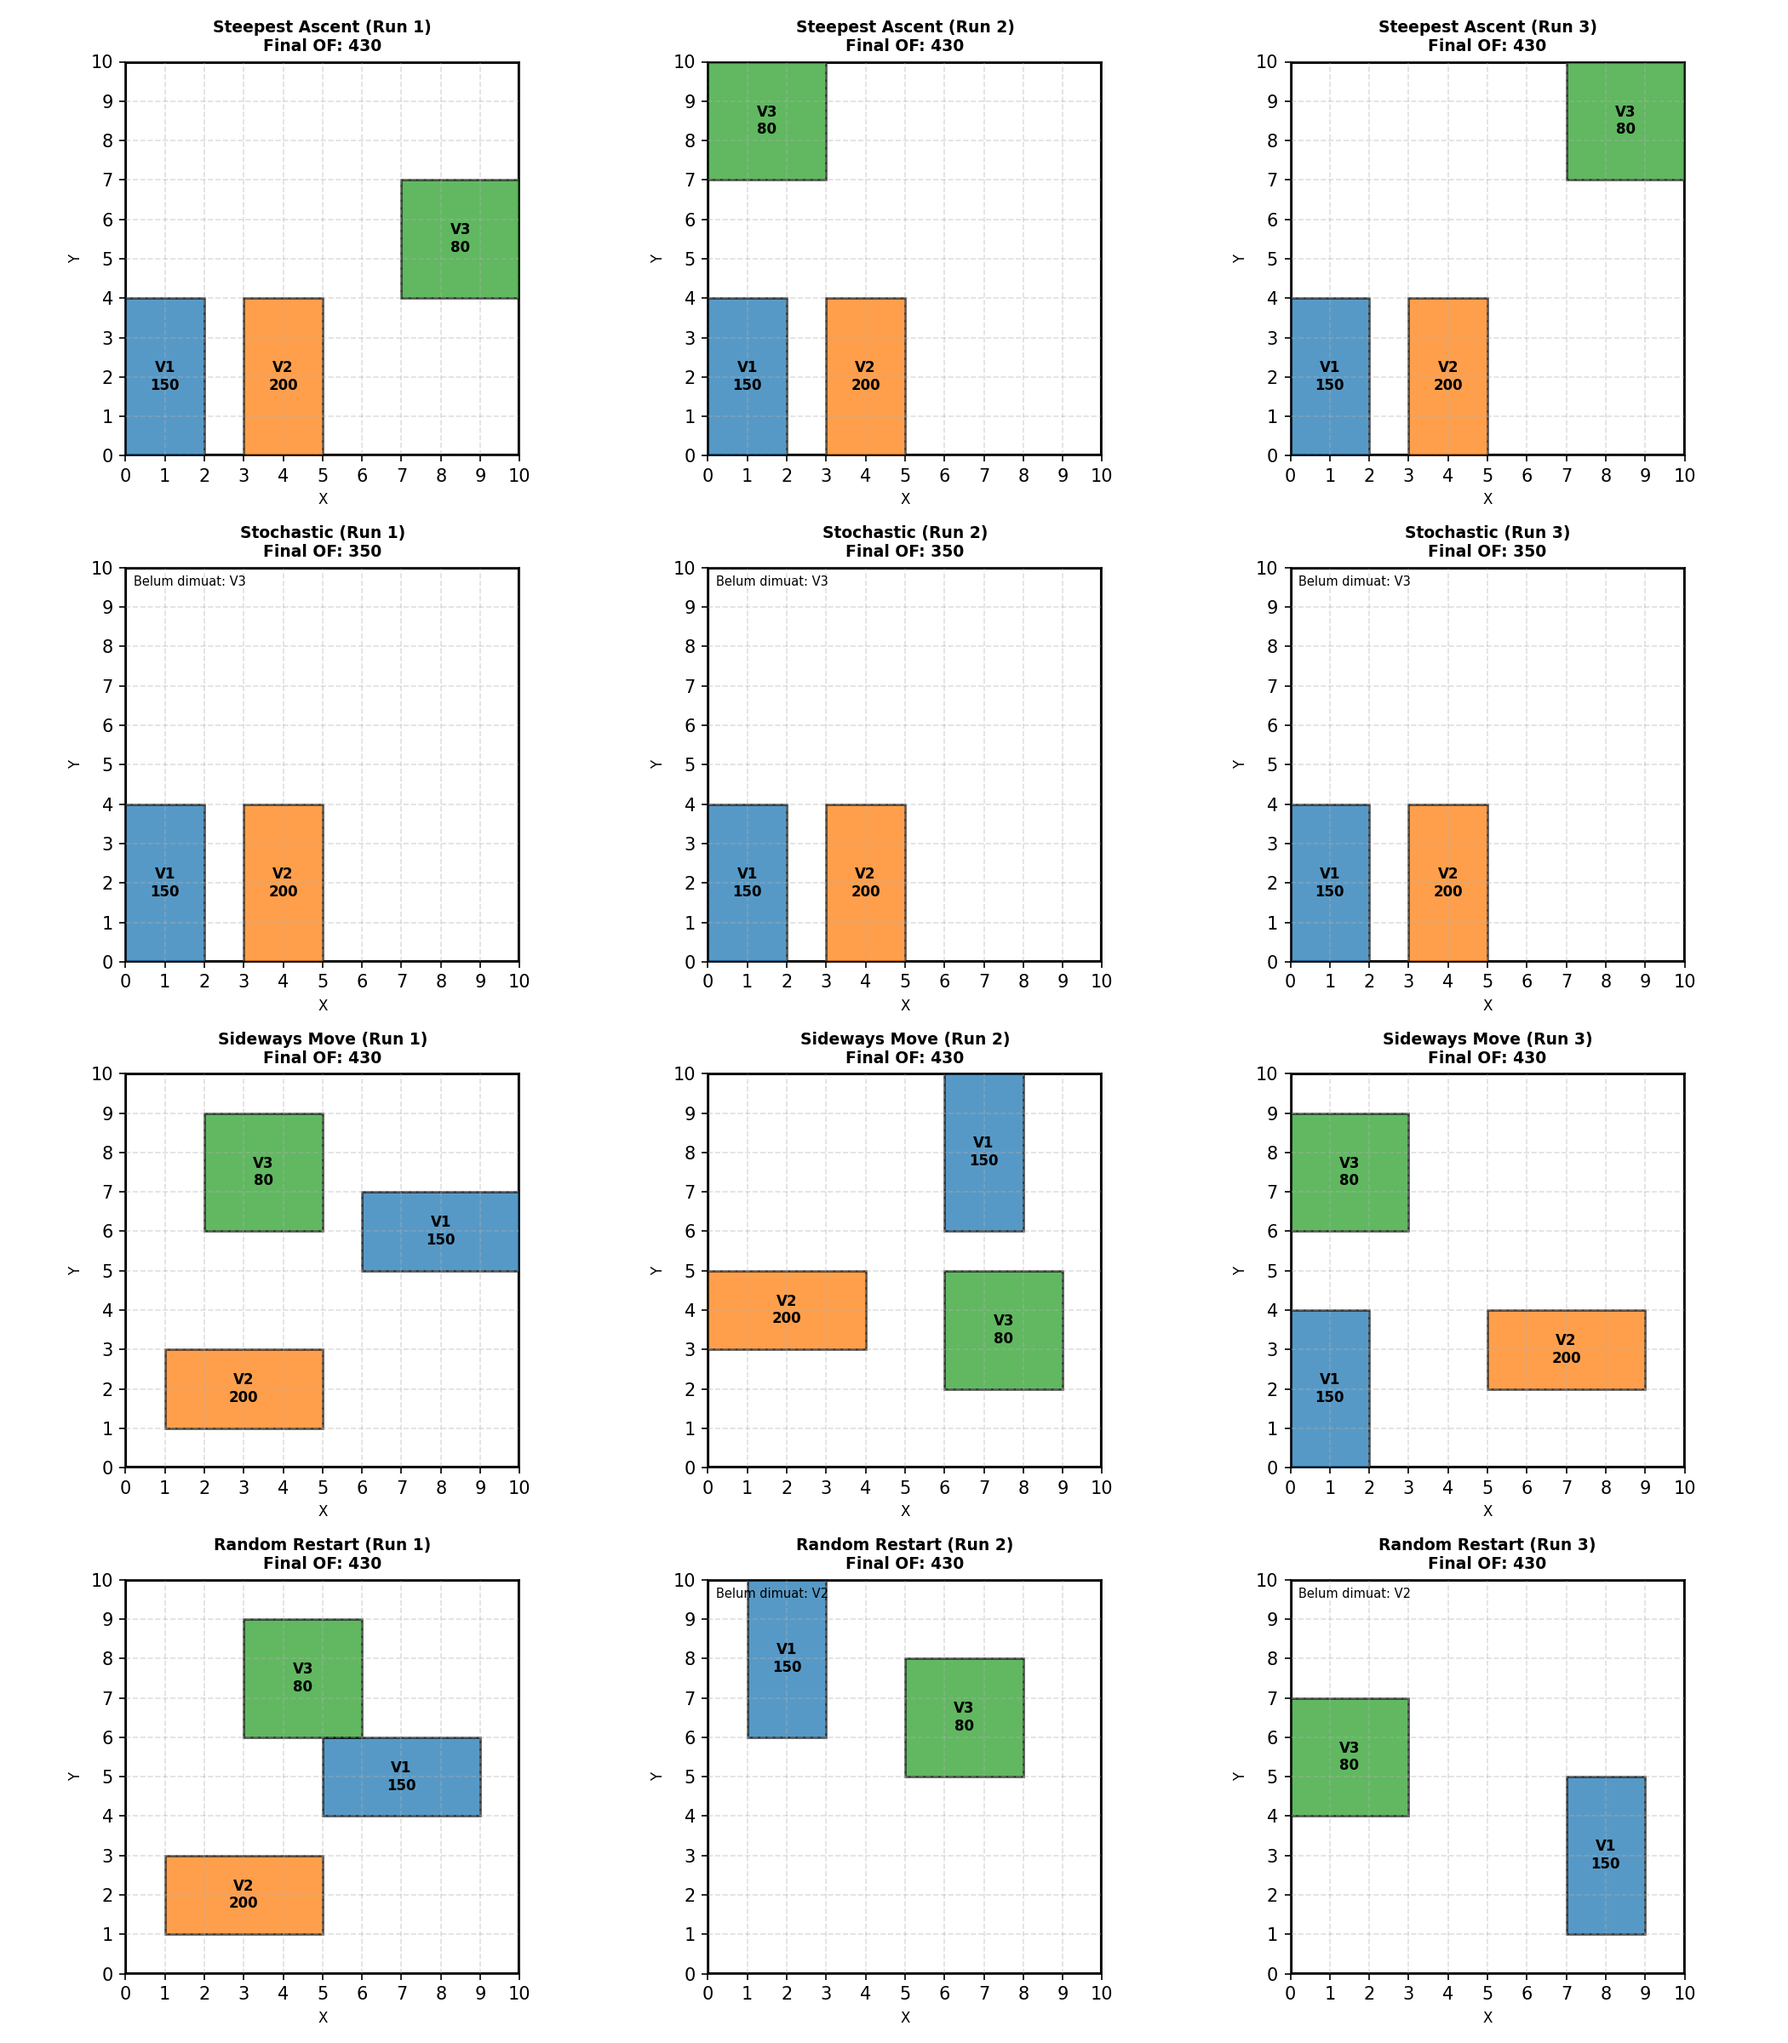
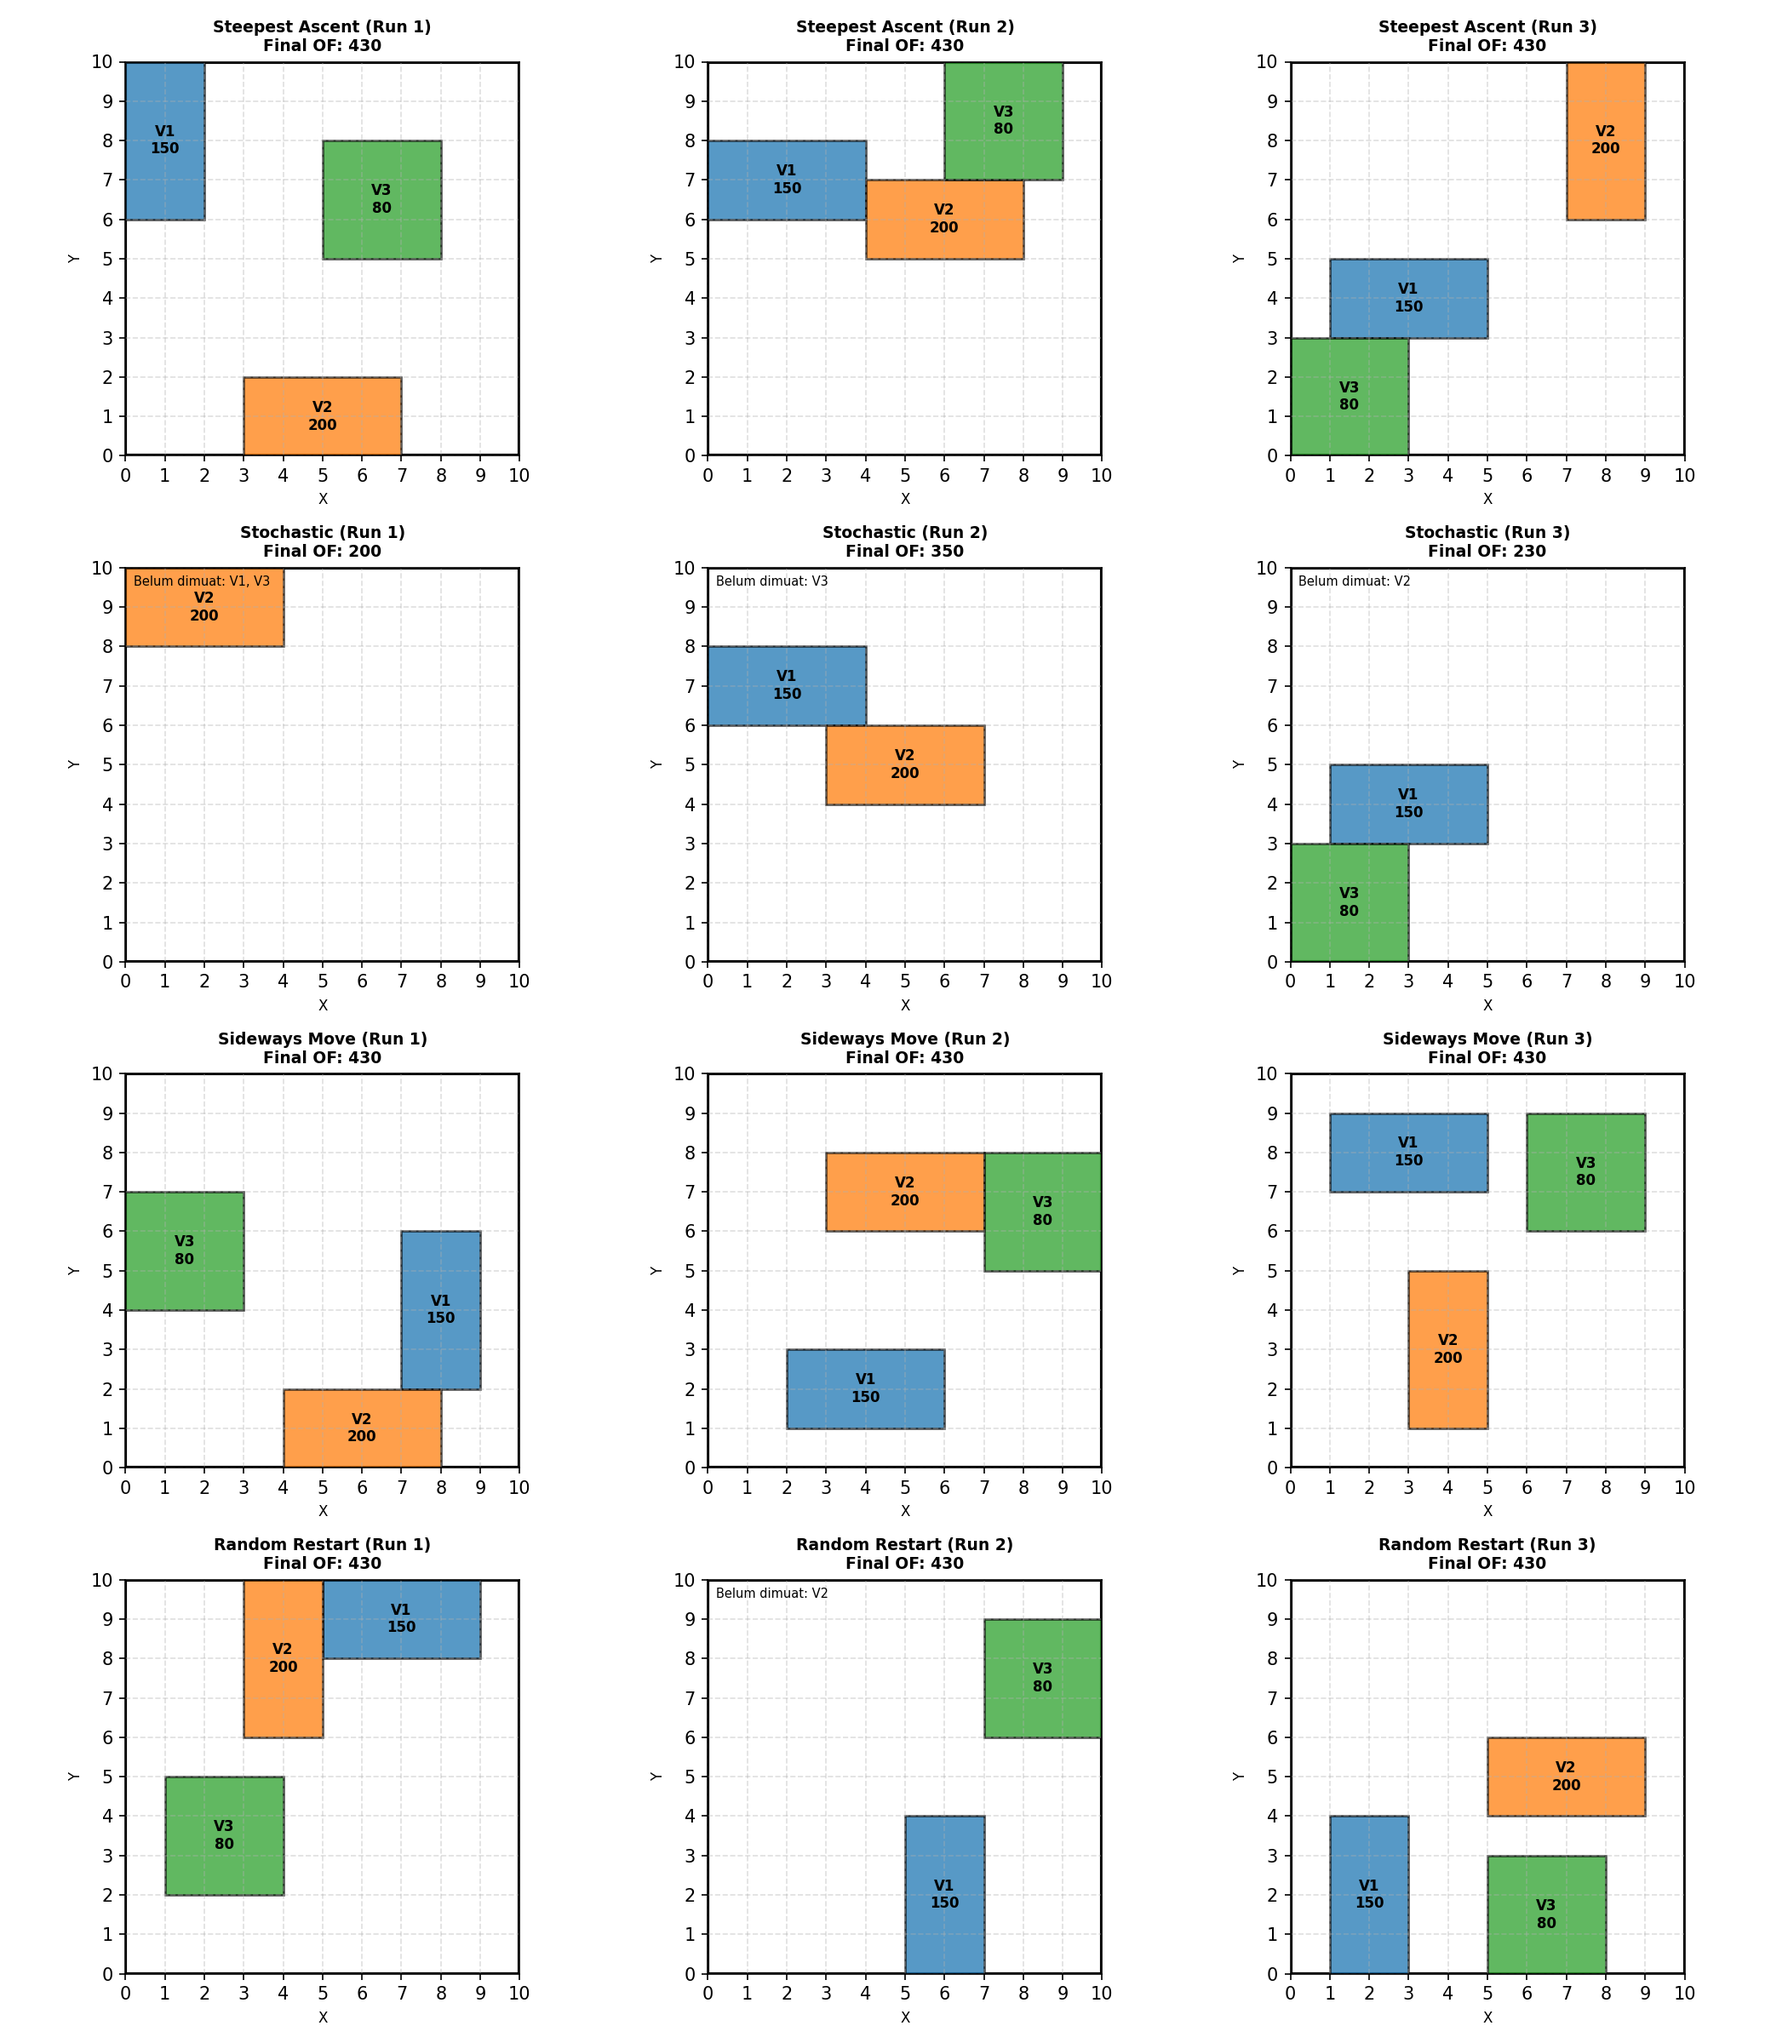
refactor: acak state awal buat eksperimen 3 run hill climbing

diff --git a/src/hill_climbing.py b/src/hill_climbing.py
@@ -503,16 +503,26 @@ def bikin_kendaraan_awal():
 # jalanin eksperimen lengkap 4 varian hill climbing dengan 3 kali percobaan (Run 1, Run 2, Run 3)
 def run_experiment(show_plot=True):
     kapal = Ship(10, 10, 1000)
-    kendaraan_awal = bikin_kendaraan_awal()
-    skor_awal = objective_function(kendaraan_awal, kapal)
+    kendaraan_template = bikin_kendaraan_awal()
 
-    # 1. simpan gambar denah geladak state awal
-    fig_awal, ax_awal = plt.subplots(figsize=(6, 6))
-    plot_deck(kendaraan_awal, kapal, f"Initial State (objective = {skor_awal})", ax_awal)
+    # label percobaan
+    percobaan_list = ["Run 1", "Run 2", "Run 3"]
+
+    # bangkitkan initial state acak murni untuk setiap run (Run 1, 2, 3)
+    # setiap run memiliki initial state acak bervariasi sesuai konfirmasi asisten
+    initial_states_per_run = {}
+    for run_label in percobaan_list:
+        initial_states_per_run[run_label] = bikin_state_acak(kendaraan_template, kapal)
+
+    # 1. simpan gambar perbandingan denah geladak state awal ketiga run
+    fig_awal, axes_awal = plt.subplots(1, 3, figsize=(14, 5))
+    for idx, run_label in enumerate(percobaan_list):
+        st = initial_states_per_run[run_label]
+        sc = objective_function(st, kapal)
+        plot_deck(st, kapal, f"Initial State - {run_label}\nObjective = {sc}", axes_awal[idx])
     simpan_gambar(fig_awal, "initial_state.png")
-
-    # konfigurasi 3 kali percobaan untuk setiap algoritma
-    percobaan_seeds = [("Run 1", 42), ("Run 2", 123), ("Run 3", 999)]
+    if not show_plot:
+        plt.close(fig_awal)
 
     # struktur data untuk merekam seluruh hasil eksperimen (12 baris)
     daftar_hasil = []
@@ -528,16 +538,16 @@ def run_experiment(show_plot=True):
     print("\n--- Menjalankan Eksperimen 4 Varian Hill Climbing (3 Run Tiap Varian) ---")
 
     # 1. Steepest Ascent Hill Climbing (Run 1, 2, 3)
-    for run_label, seed_val in percobaan_seeds:
-        random.seed(seed_val)
+    for run_label in percobaan_list:
+        init_st = copy.deepcopy(initial_states_per_run[run_label])
         t0 = time.process_time()
-        res = steepest_ascent_hill_climbing(kendaraan_awal, kapal, max_iterations=3000, num_candidates=None, verbose=False)
+        res = steepest_ascent_hill_climbing(init_st, kapal, max_iterations=3000, num_candidates=None, verbose=False)
         durasi = time.process_time() - t0
 
         item = {
             "algoritma": "Steepest Ascent",
             "run": run_label,
-            "initial_state": copy.deepcopy(kendaraan_awal),
+            "initial_state": copy.deepcopy(init_st),
             "initial_of": res[3][0],
             "final_of": res[1],
             "iterasi_info": f"{res[2]} iterasi",
@@ -550,16 +560,16 @@ def run_experiment(show_plot=True):
         data_algoritma["Steepest Ascent"].append(item)
 
     # 2. Stochastic Hill Climbing (Run 1, 2, 3)
-    for run_label, seed_val in percobaan_seeds:
-        random.seed(seed_val)
+    for run_label in percobaan_list:
+        init_st = copy.deepcopy(initial_states_per_run[run_label])
         t0 = time.process_time()
-        res = stochastic_hill_climbing(kendaraan_awal, kapal, max_iterations=3000, num_candidates=10, verbose=False)
+        res = stochastic_hill_climbing(init_st, kapal, max_iterations=3000, num_candidates=10, verbose=False)
         durasi = time.process_time() - t0
 
         item = {
             "algoritma": "Stochastic",
             "run": run_label,
-            "initial_state": copy.deepcopy(kendaraan_awal),
+            "initial_state": copy.deepcopy(init_st),
             "initial_of": res[3][0],
             "final_of": res[1],
             "iterasi_info": f"{res[2]} iterasi",
@@ -572,16 +582,16 @@ def run_experiment(show_plot=True):
         data_algoritma["Stochastic"].append(item)
 
     # 3. Sideways Move Hill Climbing (Run 1, 2, 3)
-    for run_label, seed_val in percobaan_seeds:
-        random.seed(seed_val)
+    for run_label in percobaan_list:
+        init_st = copy.deepcopy(initial_states_per_run[run_label])
         t0 = time.process_time()
-        res = sideways_move_hill_climbing(kendaraan_awal, kapal, max_iterations=3000, max_sideways_move=100, num_candidates=10, verbose=False)
+        res = sideways_move_hill_climbing(init_st, kapal, max_iterations=3000, max_sideways_move=100, num_candidates=10, verbose=False)
         durasi = time.process_time() - t0
 
         item = {
             "algoritma": "Sideways Move",
             "run": run_label,
-            "initial_state": copy.deepcopy(kendaraan_awal),
+            "initial_state": copy.deepcopy(init_st),
             "initial_of": res[3][0],
             "final_of": res[1],
             "iterasi_info": f"{res[2]} iterasi ({res.sideways_moves} sideways)",
@@ -594,17 +604,17 @@ def run_experiment(show_plot=True):
         data_algoritma["Sideways Move"].append(item)
 
     # 4. Random Restart Hill Climbing (Run 1, 2, 3)
-    for run_label, seed_val in percobaan_seeds:
-        random.seed(seed_val)
+    for run_label in percobaan_list:
+        init_st = copy.deepcopy(initial_states_per_run[run_label])
         t0 = time.process_time()
-        res = random_restart_hill_climbing(kapal, max_restart=10, max_iterations_per_restart=1000, initial_vehicles=kendaraan_awal, num_candidates=10, verbose=False)
+        res = random_restart_hill_climbing(kapal, max_restart=10, max_iterations_per_restart=1000, initial_vehicles=init_st, num_candidates=10, verbose=False)
         durasi = time.process_time() - t0
 
         item = {
             "algoritma": "Random Restart",
             "run": run_label,
-            "initial_state": res.initial_state if hasattr(res, "initial_state") and res.initial_state is not None else copy.deepcopy(kendaraan_awal),
-            "initial_of": res.initial_score if res.initial_score is not None else skor_awal,
+            "initial_state": res.initial_state if hasattr(res, "initial_state") and res.initial_state is not None else copy.deepcopy(init_st),
+            "initial_of": res.initial_score if res.initial_score is not None else objective_function(init_st, kapal),
             "final_of": res[1],
             "iterasi_info": f"{sum(res[3])} iterasi ({res[2]} restarts)",
             "durasi": durasi,
